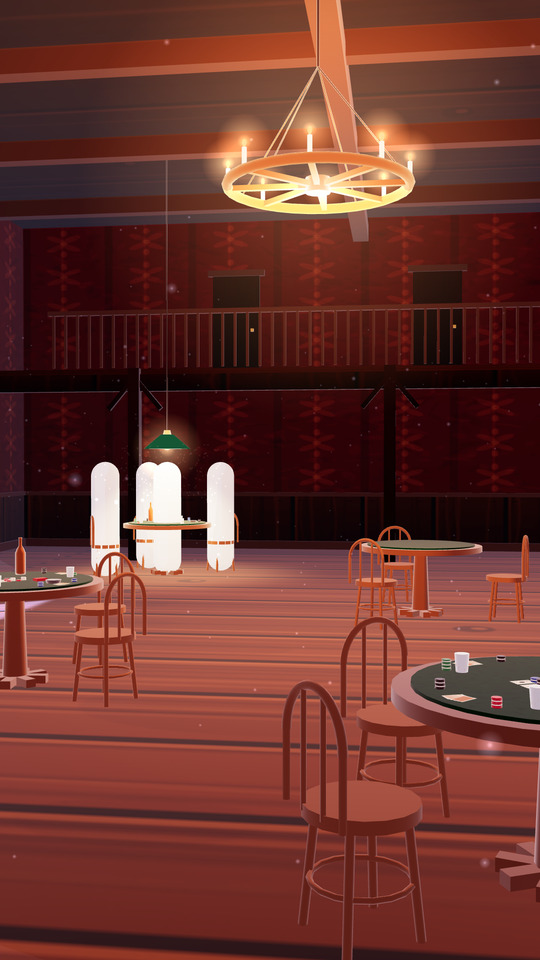
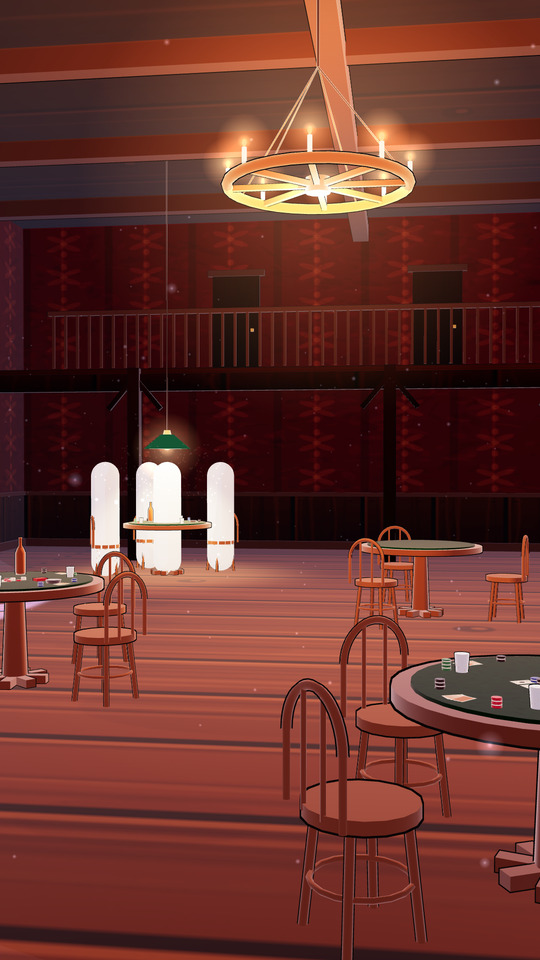
Batwing doors: arched tops sit on top of each leaf (were rotated sideways)

diff --git a/src/anime/sets/town.ts b/src/anime/sets/town.ts
@@ -5,7 +5,7 @@
 // (+X) at z = 0, facing west. Sun high-ish in the west-south-west, so the saloon facade is sunlit.
 import * as THREE from "three";
 import type { BuiltSet } from "./types";
-import { toonE, ink, box, reseed, rnd, canvasTex, dab, planks, shingles, stones, grassCard, treeTex, daySky, dayCloud, mesa, groundMat, tufts, dustMotes, keyLight, signTex, rod, noShadow, clearGlowCache } from "./westkit";
+import { archGeo, toonE, ink, box, reseed, rnd, canvasTex, dab, planks, shingles, stones, grassCard, treeTex, daySky, dayCloud, mesa, groundMat, tufts, dustMotes, keyLight, signTex, rod, noShadow, clearGlowCache } from "./westkit";
 
 export const TOWN_SUN = new THREE.Vector3(-0.62, 0.68, 0.38).normalize();
 const FX = 8.6, BW = 2.4, BH = 0.4; // facade line (|x|), boardwalk depth + height
@@ -168,7 +168,7 @@ export const buildTown = (): BuiltSet => {
   sal.add(box(1.2, 0.45, 0.04, new THREE.MeshBasicMaterial({ color: "#7a4a24", toneMapped: false }), 0, BH + 2.1, fz + 0.04, 0)); // warm glow inside
   const batM = toonE("#c08a58", { map: canvasTex(128, 256, (c) => { c.fillStyle = "#b8845a"; c.fillRect(0, 0, 128, 256); for (let y = 20; y < 236; y += 14) { c.fillStyle = "#5a3620"; c.fillRect(14, y, 100, 5); c.fillStyle = "#b88a5e"; c.fillRect(14, y + 5, 100, 2); } c.strokeStyle = "#4a2c1a"; c.lineWidth = 12; c.strokeRect(6, 6, 116, 244); }), shade: 0.6 });
   for (const sx of [-1, 1]) { const h = new THREE.Group(); h.name = sx < 0 ? "saloonDoorL" : "saloonDoorR"; h.position.set(sx * 0.6, BH + 1.35, fz + 0.1); h.rotation.y = sx * 0.12; sal.add(h);
-    const leaf = box(0.58, 1.1, 0.05, batM, -sx * 0.29, 0, 0, 0.01); h.add(leaf); const top = new THREE.Mesh(new THREE.CylinderGeometry(0.29, 0.29, 0.05, 16, 1, false, 0, Math.PI), batM); top.rotation.set(Math.PI / 2, 0, sx > 0 ? Math.PI / 2 : -Math.PI / 2); top.scale.set(1, 1, 0.5); top.position.set(-sx * 0.29, 0.55, 0); h.add(top); ink(top, 0.008); }
+    const leaf = box(0.58, 1.1, 0.05, batM, -sx * 0.29, 0, 0, 0.01); h.add(leaf); const top = new THREE.Mesh(archGeo(0.58, 0.14, 0.05), batM); top.position.set(-sx * 0.29, 0.55, 0); h.add(top); ink(top, 0.008); }
   for (const s of [-1, 1]) { const lamp = new THREE.Group(); lamp.position.set(s * 1.4, BH + 2.5, fz + 0.25); sal.add(lamp); lamp.add(box(0.22, 0.06, 0.22, toonE("#2e2a28", { rim: 0.4 }), 0, 0.12, 0.03, 0.006)); lamp.add(box(0.2, 0.05, 0.2, toonE("#2e2a28"), 0, -0.14, 0.03, 0.006)); lamp.add(box(0.16, 0.2, 0.16, new THREE.MeshBasicMaterial({ color: "#f0e2b0", toneMapped: false }), 0, -0.02, 0.03, 0)); lamp.add(box(0.05, 0.05, 0.25, toonE("#2e2a28"), 0, 0.1, -0.12, 0)); }
   { const b = new THREE.Group(); b.position.set(-4.3, BH, 0.6); sal.add(b); b.add(box(2.0, 0.08, 0.4, toonE("#5a3e2c"), 0, 0.46, 0, 0.01)); for (const s of [-0.8, 0.8]) b.add(box(0.08, 0.44, 0.36, toonE("#5a3e2c"), s, 0.22, 0, 0.006)); }
   // ---- north end: church, water tower, windmill, corral ----

diff --git a/src/anime/sets/saloon.ts b/src/anime/sets/saloon.ts
@@ -6,7 +6,7 @@
 // stairs along the west wall, balcony across the back (-Z). The moon is outside to the west-front (-X, +Z).
 import * as THREE from "three";
 import type { BuiltSet } from "./types";
-import { toonE as toonBase, ink, box, reseed, rnd, canvasTex, dab, planks, glowSprite, dustMotes, keyLight, noShadow, noReceive, rod, clearGlowCache } from "./westkit";
+import { archGeo, toonE as toonBase, ink, box, reseed, rnd, canvasTex, dab, planks, glowSprite, dustMotes, keyLight, noShadow, noReceive, rod, clearGlowCache } from "./westkit";
 
 // interior: shadows go warm plum instead of the exterior dusk violet
 const toonE = (c: string, o: Parameters<typeof toonBase>[1] = {}) => toonBase(c, { shadeTint: "#3a1a22", tintAmt: 0.35, ...o });
@@ -105,7 +105,7 @@ export const buildSaloon = (): BuiltSet => {
   // batwing doors (in the doorway), named so a scene can swing them
   const batM = toonE("#b07a4c", { map: canvasTex(128, 256, (c) => { c.fillStyle = "#a8744a"; c.fillRect(0, 0, 128, 256); for (let y = 20; y < 236; y += 14) { c.fillStyle = "#5a3620"; c.fillRect(14, y, 100, 5); c.fillStyle = "#d0a070"; c.fillRect(14, y + 5, 100, 2); } c.strokeStyle = "#4a2c1a"; c.lineWidth = 12; c.strokeRect(6, 6, 116, 244); }), shade: 0.6 });
   for (const sx of [-1, 1]) { const h = new THREE.Group(); h.name = sx < 0 ? "saloonDoorL" : "saloonDoorR"; h.position.set(sx * 0.78, 1.35, Z1 - 0.05); h.rotation.y = sx * -0.1; g.add(h);
-    h.add(box(0.76, 1.1, 0.05, batM, -sx * 0.38, 0, 0, 0.01)); const top = new THREE.Mesh(new THREE.CylinderGeometry(0.38, 0.38, 0.05, 16, 1, false, 0, Math.PI), batM); top.rotation.set(Math.PI / 2, 0, sx > 0 ? Math.PI / 2 : -Math.PI / 2); top.scale.set(1, 1, 0.45); top.position.set(-sx * 0.38, 0.55, 0); ink(top, 0.008); h.add(top); }
+    h.add(box(0.76, 1.1, 0.05, batM, -sx * 0.38, 0, 0, 0.01)); const top = new THREE.Mesh(archGeo(0.76, 0.17, 0.05), batM); top.position.set(-sx * 0.38, 0.55, 0); ink(top, 0.008); h.add(top); }
   // ---- bar ----
   const darkWood = toonE("#5a3420", { map: planks("#5a3420", "#24140c", 6), shade: 0.55, rim: 0.15 }); const barTop = toonE("#4a2416", { shade: 0.5, rim: 0.12 });
   const BX = 4.3, BZ0 = -6.2, BZ1 = 4.2; const BL = BZ1 - BZ0, BZc = (BZ0 + BZ1) / 2;

diff --git a/src/anime/sets/westkit.ts b/src/anime/sets/westkit.ts
@@ -170,6 +170,9 @@ export const keyLight = (g: THREE.Group, dir: THREE.Vector3, color: string, inte
 // merged geometry helper: list of [geometry, matrix] -> one geometry
 export const merged = (parts: { geo: THREE.BufferGeometry; m: THREE.Matrix4 }[]) => mergeGeometries(parts.map(({ geo, m }) => { const g2 = geo.index ? geo.toNonIndexed() : geo.clone(); g2.applyMatrix4(m); return g2; }), false)!;
 export const M4 = (x: number, y: number, z: number, rx = 0, ry = 0, rz = 0, sx = 1, sy = 1, sz = 1) => new THREE.Matrix4().compose(new THREE.Vector3(x, y, z), new THREE.Quaternion().setFromEuler(new THREE.Euler(rx, ry, rz)), new THREE.Vector3(sx, sy, sz));
+// half-ellipse arch in the XY plane (base on y = 0, centred on x = 0, rising to h), d thick: batwing door tops
+export const archGeo = (w: number, h: number, d: number) => { const s = new THREE.Shape(); s.moveTo(w / 2, 0); s.absellipse(0, 0, w / 2, h, 0, Math.PI, false); s.lineTo(w / 2, 0);
+  const geo = new THREE.ExtrudeGeometry(s, { depth: d, bevelEnabled: false, curveSegments: 20 }); geo.translate(0, 0, -d / 2); return geo; };
 // a cylinder between two points (ropes, rails, pipes)
 export const rod = (a: THREE.Vector3, b: THREE.Vector3, r: number, mat: THREE.Material, seg = 8) => { const d = b.clone().sub(a); const m = new THREE.Mesh(new THREE.CylinderGeometry(r, r, d.length(), seg), mat); m.position.copy(a).addScaledVector(d, 0.5); m.quaternion.setFromUnitVectors(new THREE.Vector3(0, 1, 0), d.normalize()); return m; };
 // painted text sign board texture (hand-lettered, slightly uneven)
